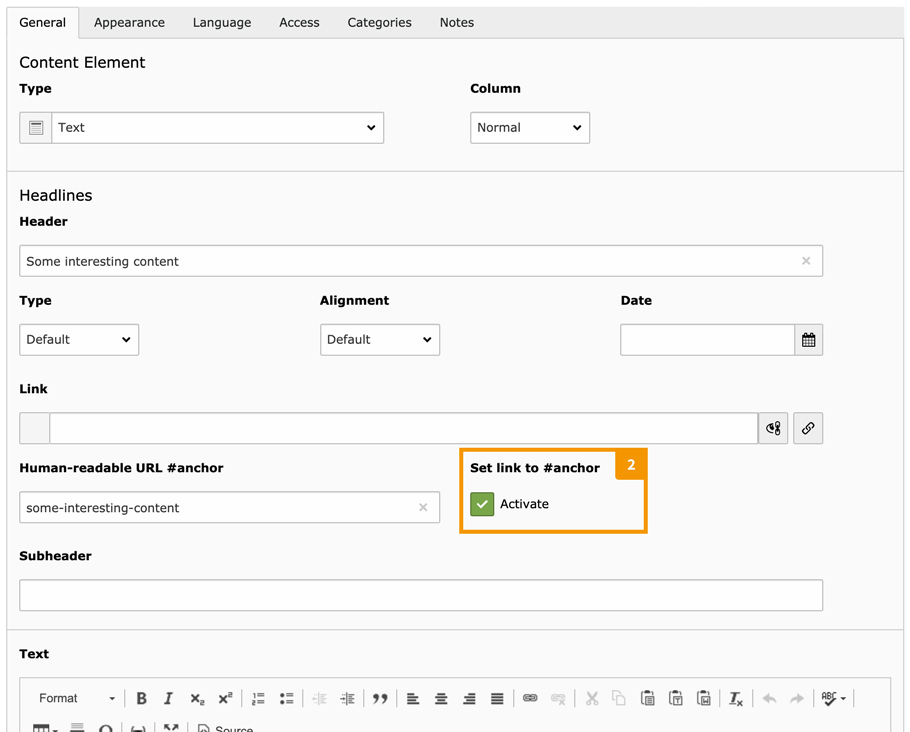
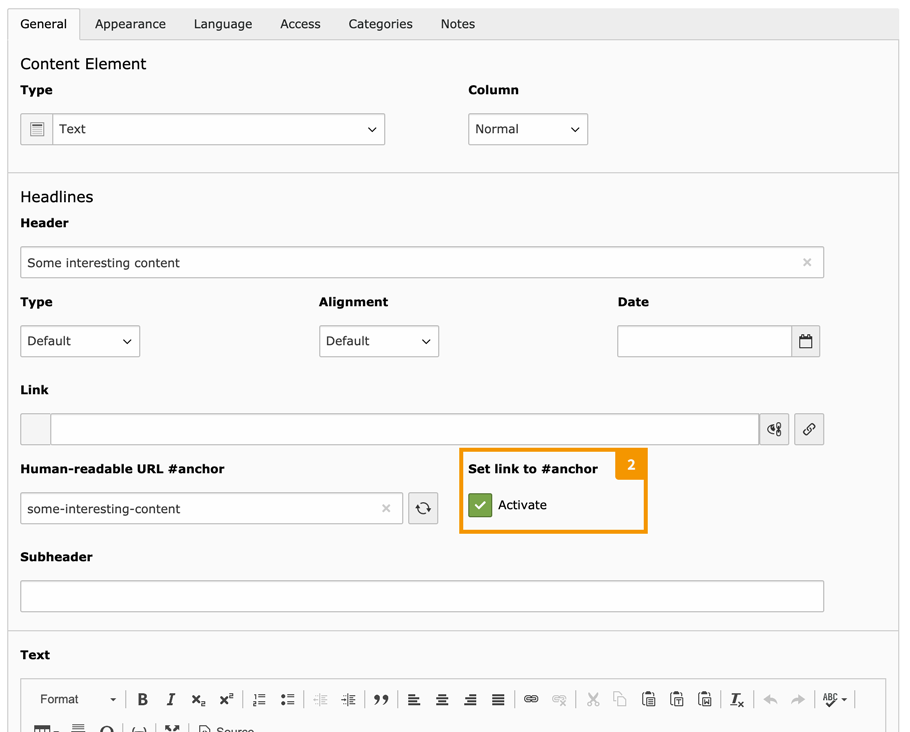
[FEATURE] Add button to generate anchor from header field
A new button is rendered next to the fragment field,
which can be used to generate a fragment from the
current contents of the header field.

The generated fragment is immediately sanitized.

Fixes #2

diff --git a/Resources/Public/JavaScript/FillFragment.js b/Resources/Public/JavaScript/FillFragment.js
@@ -1,0 +1,30 @@
+/**
+ * Module: TYPO3/CMS/ContentSlug/FillFragment
+ */
+define(['TYPO3/CMS/Backend/FormEngine'], function (FormEngine) {
+  'use strict';
+
+  var FillFragment = {};
+
+  /**
+   * When the 'Generate anchor' button is clicked, the anchor/fragment field gets filled with the current content of the header field.
+   * The 'FragmentEvaluation' function is used for an immediate evaluation of the fragment.
+   * 'fieldChanged()' is needed to successfully save the changes to the database. It also triggers the 'Unsaved changes' modal for this field.
+   */
+  FillFragment.initializeEvents = function () {
+    var fragmentBtn = document.querySelector('.btn-fragment'),
+        elemId = fragmentBtn.dataset.uid,
+        headerField = document.querySelector('[data-formengine-input-name="data[tt_content][' + elemId + '][header]"]'),
+        fragmentField = document.querySelector('[data-formengine-input-name="data[tt_content][' + elemId + '][tx_content_slug_fragment]"]');
+
+    fragmentBtn.addEventListener('click', function (evt) {
+      evt.preventDefault();
+      fragmentField.value = TBE_EDITOR.customEvalFunctions['Sebkln\\ContentSlug\\Evaluation\\FragmentEvaluation'](headerField.value);
+      TBE_EDITOR.fieldChanged('tt_content', elemId, 'tx_content_slug_fragment', 'data[tt_content][' + elemId + '][tx_content_slug_fragment]');
+    });
+  };
+
+  $(FillFragment.initializeEvents);
+
+  return FillFragment;
+});

diff --git a/Classes/FormEngine/FieldControl/GenerateFragmentFromHeaderControl.php b/Classes/FormEngine/FieldControl/GenerateFragmentFromHeaderControl.php
@@ -1,0 +1,44 @@
+<?php
+declare(strict_types=1);
+
+namespace Sebkln\ContentSlug\FormEngine\FieldControl;
+
+/*
+ * This file is part of the package sebkln/content_slug
+ *
+ * Copyright (c) 2021 Sebastian Klein <sebastian@sebkln.de>
+ *
+ * For the full copyright and license information, please read the
+ * LICENSE file that was distributed with this source code.
+ */
+
+use TYPO3\CMS\Backend\Form\AbstractNode;
+
+/**
+ * Class GenerateFragmentFromHeaderControl
+ *
+ * This will render a button next to the input field,
+ * which allows editors to generate a URL fragment
+ * from the current header field contents.
+ */
+class GenerateFragmentFromHeaderControl extends AbstractNode
+{
+    /**
+     * Handler for single nodes
+     *
+     * @return array As defined in initializeResultArray() of AbstractNode
+     */
+    public function render(): array
+    {
+        $result = [
+            'iconIdentifier' => 'actions-refresh',
+            'title' => $GLOBALS['LANG']->sL('LLL:EXT:content_slug/Resources/Private/Language/locallang_db.xlf:tt_content.tx_content_slug_fragment.generateFromHeader'),
+            'linkAttributes' => [
+                'class' => 'btn-fragment ', // Button class can be selected in JavaScript.
+                'data-uid' => $this->data['databaseRow']['uid'] // Fills the data-uid attribute with the uid of the current content element.
+            ],
+            'requireJsModules' => ['TYPO3/CMS/ContentSlug/FillFragment'],
+        ];
+        return $result;
+    }
+}

diff --git a/ext_localconf.php b/ext_localconf.php
@@ -3,3 +3,10 @@ defined('TYPO3_MODE') or die();
 
 // Register the class to be available in 'eval' of TCA:
 $GLOBALS['TYPO3_CONF_VARS']['SC_OPTIONS']['tce']['formevals']['Sebkln\\ContentSlug\\Evaluation\\FragmentEvaluation'] = '';
+
+// Register new render type to copy current header to the fragment field:
+$GLOBALS['TYPO3_CONF_VARS']['SYS']['formEngine']['nodeRegistry'][1587208269] = [
+    'nodeName' => 'generateFragmentFromHeaderControl',
+    'priority' => 30,
+    'class' => \Sebkln\ContentSlug\FormEngine\FieldControl\GenerateFragmentFromHeaderControl::class
+];

diff --git a/Configuration/TCA/Overrides/tt_content.php b/Configuration/TCA/Overrides/tt_content.php
@@ -11,7 +11,12 @@ $fields = array(
             'size' => 50,
             'max' => 80,
             'eval' => 'trim,Sebkln\\ContentSlug\\Evaluation\\FragmentEvaluation,uniqueInPid',
-            'default' => ''
+            'default' => '',
+            'fieldControl' => [
+                'importControl' => [
+                    'renderType' => 'generateFragmentFromHeaderControl'
+                ]
+            ]
         ],
     ],
     'tx_content_slug_link' => [

diff --git a/Documentation/Introduction/Index.rst b/Documentation/Introduction/Index.rst
@@ -49,6 +49,7 @@ Features
 ~~~~~~~~
 
 - **Editors** can :ref:`set individual, human-readable fragment identifiers <editors-explanation-fragment>` per content element.
+- **Editors** can use a button to automatically generate a fragment from the current header.
 - **Editors** can :ref:`activate anchor links to headers <editors-explanation-anchorlink>` per content element.
 - **Fallback:** If no fragment is given, the default link is used in section menus.
 - **Evaluation #1:** Only supported characters are stored. Special characters are replaced.

diff --git a/README.md b/README.md
@@ -40,6 +40,7 @@ An editor can activate these with a checkbox for individual content elements.
 ### Features
 
 - Editors can set individual, human-readable fragment identifiers per content element.
+- Editors can use a button to automatically generate a fragment from the current header.
 - Editors can activate anchor links to headers per content element.
 - Fallback: If no fragment is given, the default link is used in section menus.
 - Evaluation #1: Only supported characters are stored. Special characters are replaced.

diff --git a/Documentation/Editor/Index.rst b/Documentation/Editor/Index.rst
@@ -47,7 +47,11 @@ This extension will help you with that!
 ----------------------------------
 
 You can use the following text field to set a more readable anchor for a
-TYPO3 content element:
+TYPO3 content element.
+
+The button on the right allows you to automatically generate an anchor from the
+current contents of the header field.
+You can, of course, modify the anchor afterwards.
 
 .. figure:: ../Images/EditorManual/field-fragment.png
    :width: 910px

diff --git a/Documentation/ToDoList/Index.rst b/Documentation/ToDoList/Index.rst
@@ -6,6 +6,5 @@
 To-Do list
 ==========
 
-- Provide a button which allows the editor to generate an anchor with the contents of the header field.
 - Allow integrators to configure the complete fragment identifier (including prefix/suffix) with TypoScript
   (instead of adapting several Fluid templates). This would also simplify several Fluid conditions.
